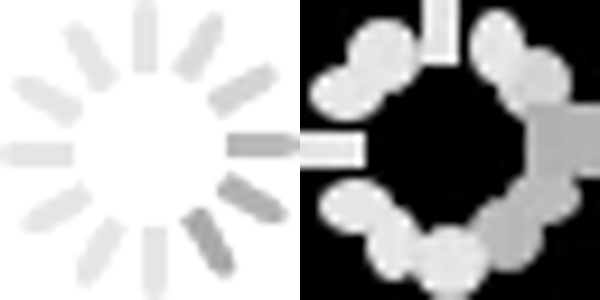
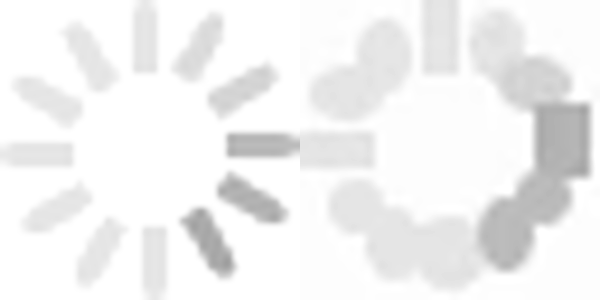
v0.5.2: alpha-aware background estimation
The GIF decoder fills fully-transparent pixels with rgba(0,0,0,0), and
the corner-sampling background estimator averaged that black into its
estimate — real_loader.gif (spinner on a transparent canvas) round-
tripped with bg.fill = #000000 and an inverted look.

detect.rs is now alpha-aware (MIN_OPAQUE_ALPHA = 128):

- estimate_background skips sub-opaque pixels; when no corner pixel is
  opaque at all, fall back to white, the colour viewers composite
  transparent GIFs onto
- the foreground mask treats transparent pixels as background by
  definition, so a transparent canvas can't become one giant
  foreground blob once the estimated background isn't black
- three new unit tests cover the fallback, the dithered-corner case,
  and the transparent-canvas mask guard

Measured: loader background flips #000000 -> #ffffff with all 12 tick
tracks intact (compare still regenerated); opaque inputs unchanged —
all 117 recovered pendulum geometries are byte-identical, only the
tie-break ordering of equal-length noise tracks shuffles. MP4 frames
decode fully opaque, so that path is untouched by construction.

diff --git a/crates/vac-decompiler/src/detect.rs b/crates/vac-decompiler/src/detect.rs
@@ -77,6 +77,14 @@ const FG_THRESHOLD_SQ: u32 = 24 * 24 * 3;
 /// and discarded (smaller than a 3x3 cluster).
 const MIN_BLOB_AREA: u32 = 9;
 
+/// Alpha below this is treated as transparent and excluded from both
+/// background estimation and the foreground mask (v0.5.2). GIF alpha
+/// is binary (0 or 255) and H.264 frames decode with alpha = 255
+/// everywhere, so this only bites on transparent GIF canvases — where
+/// the decoder's rgba(0,0,0,0) fill used to masquerade as a black
+/// background.
+const MIN_OPAQUE_ALPHA: u8 = 128;
+
 /// Run detection across all frames.
 pub fn detect_all(frames: &[VideoFrame]) -> Vec<Detection> {
     let mut out = Vec::with_capacity(frames.len());
@@ -97,6 +105,11 @@ pub fn detect_all(frames: &[VideoFrame]) -> Vec<Detection> {
 }
 
 /// Sample a small block at each corner and return the median RGB.
+///
+/// Fully-transparent pixels are excluded from the samples. If *no*
+/// corner pixel is opaque, the canvas has no measurable background
+/// colour at all — fall back to white, the colour viewers composite
+/// transparent GIFs onto.
 fn estimate_background(f: &VideoFrame) -> Color {
     let w = f.width as i32;
     let h = f.height as i32;
@@ -114,7 +127,7 @@ fn estimate_background(f: &VideoFrame) -> Color {
         }
     }
     if samples.is_empty() {
-        return Color::rgb(0, 0, 0);
+        return Color::rgb(255, 255, 255);
     }
     let mut rs: Vec<u8> = samples.iter().map(|c| c.0).collect();
     let mut gs: Vec<u8> = samples.iter().map(|c| c.1).collect();
@@ -140,6 +153,9 @@ fn sample_block_avg(f: &VideoFrame, x0: i32, y0: i32, w: i32, h: i32) -> Option<
     for y in y0..y1 {
         for x in x0..x1 {
             let i = ((y * fw + x) * 4) as usize;
+            if f.pixels[i + 3] < MIN_OPAQUE_ALPHA {
+                continue;
+            }
             sr += f.pixels[i] as u32;
             sg += f.pixels[i + 1] as u32;
             sb += f.pixels[i + 2] as u32;
@@ -160,9 +176,15 @@ fn detect_blobs(f: &VideoFrame, bg: Color) -> Vec<Blob> {
     let w = f.width as usize;
     let h = f.height as usize;
 
-    // Foreground mask.
+    // Foreground mask. Transparent pixels are background by
+    // definition — without the alpha guard, a transparent canvas
+    // (decoded as rgba(0,0,0,0)) turns into one giant foreground blob
+    // the moment the estimated background isn't black.
     let mut mask = vec![false; w * h];
     for i in 0..(w * h) {
+        if f.pixels[i * 4 + 3] < MIN_OPAQUE_ALPHA {
+            continue;
+        }
         let r = f.pixels[i * 4];
         let g = f.pixels[i * 4 + 1];
         let b = f.pixels[i * 4 + 2];
@@ -585,6 +607,91 @@ mod tests {
         for b in &blobs {
             assert_eq!(b.kind, ShapeKind::Rect, "fill_ratio={}", b.fill_ratio);
         }
+    }
+
+    /// Like `synth_frame`, but pixels where `opaque(x, y)` is false are
+    /// written as rgba(0, 0, 0, 0) — exactly what the GIF decoder
+    /// leaves in transparent regions.
+    fn synth_frame_transparent(
+        w: u32,
+        h: u32,
+        fg: (u8, u8, u8),
+        opaque: impl Fn(u32, u32) -> bool,
+    ) -> VideoFrame {
+        let mut pixels = vec![0u8; (w * h * 4) as usize];
+        for y in 0..h {
+            for x in 0..w {
+                if opaque(x, y) {
+                    let i = ((y * w + x) * 4) as usize;
+                    pixels[i] = fg.0;
+                    pixels[i + 1] = fg.1;
+                    pixels[i + 2] = fg.2;
+                    pixels[i + 3] = 255;
+                }
+            }
+        }
+        VideoFrame {
+            width: w,
+            height: h,
+            pixels,
+            delay_ms: 33,
+        }
+    }
+
+    /// v0.5.2 — a fully-transparent canvas has no measurable background;
+    /// the estimator must fall back to white (the viewer compositing
+    /// default), not report the decoder's rgba(0,0,0,0) fill as black.
+    #[test]
+    fn transparent_corners_fall_back_to_white_background() {
+        let f = synth_frame_transparent(32, 32, (60, 60, 60), |x, y| {
+            // Opaque dark disk in the middle; corners fully transparent.
+            let dx = x as i32 - 16;
+            let dy = y as i32 - 16;
+            dx * dx + dy * dy <= 6 * 6
+        });
+        let bg = estimate_background(&f);
+        assert_eq!(
+            (bg.r, bg.g, bg.b),
+            (255, 255, 255),
+            "transparent corners should fall back to white, got {bg:?}"
+        );
+    }
+
+    /// v0.5.2 — opaque corner pixels must win over transparent ones in
+    /// the same corner block instead of being averaged with black.
+    #[test]
+    fn background_estimation_ignores_transparent_pixels_in_corner_blocks() {
+        // Every even pixel is opaque mid-grey, every odd pixel is
+        // transparent — a 50% dither. The estimate must be the grey,
+        // not grey averaged toward rgba(0,0,0,0).
+        let f = synth_frame_transparent(32, 32, (200, 200, 200), |x, y| (x + y) % 2 == 0);
+        let bg = estimate_background(&f);
+        assert_eq!(
+            (bg.r, bg.g, bg.b),
+            (200, 200, 200),
+            "transparent pixels leaked into the estimate: {bg:?}"
+        );
+    }
+
+    /// v0.5.2 — transparent pixels are background by definition. With a
+    /// white estimated background, the transparent canvas (decoded as
+    /// black) must NOT become one giant foreground blob; only the
+    /// opaque tick is a blob.
+    #[test]
+    fn transparent_canvas_does_not_become_a_foreground_blob() {
+        let f = synth_frame_transparent(32, 32, (60, 60, 60), |x, y| {
+            (14..18).contains(&x) && (4..12).contains(&y)
+        });
+        let blobs = detect_blobs(&f, Color::rgb(255, 255, 255));
+        assert_eq!(
+            blobs.len(),
+            1,
+            "expected only the opaque tick as a blob, got {blobs:?}"
+        );
+        let b = blobs[0];
+        assert!((b.cx - 15.5).abs() <= 1.0, "cx={}", b.cx);
+        assert!((b.cy - 7.5).abs() <= 1.0, "cy={}", b.cy);
+        assert_eq!((b.color.r, b.color.g, b.color.b), (60, 60, 60));
     }
 }
 

diff --git a/docs/v0.4-capability-matrix.md b/docs/v0.4-capability-matrix.md
@@ -442,7 +442,12 @@ more gaps surfaced:**
 1. **Transparent GIFs:** corner sampling on a fully-transparent corner
    returns whatever the GIF decoder filled it with, which on this input
    was black. v0.5 should detect alpha and treat fully-transparent
-   pixels as "ignore for background estimation".
+   pixels as "ignore for background estimation". (**Shipped v0.5.2** —
+   `detect.rs` skips sub-opaque pixels in both background estimation
+   and the foreground mask, falling back to a white canvas when no
+   corner pixel is opaque. The loader round-trip background flipped
+   from `#000000` to `#ffffff`; opaque inputs are geometrically
+   unchanged.)
 2. **Rotational motion:** the spinner is conceptually one shape rotating
    12 times, but VAC's tracker has no rotational matching, so each tick
    gets a fresh track of length ~3 frames. v0.5+ should add a `rotate`
@@ -454,7 +459,7 @@ more gaps surfaced:**
 |---|---|---|
 | **Stationarity filter on per-track motion variance** | `newtons_cradle` (60→53 blocks), `mandelbrot` (27→22), partial `pendulum` | **Shipped v0.5.1** — every sample within 2.5 px of the track's mean position → static shape anchored at the median, no `animate`. |
 | **Odd-dimension encoder** | `double_pendulum` | **Shipped v0.4.1** — `vac-compiler::mp4` now pads odd canvases. |
-| **Transparent-pixel-aware background estimation** | `loader` | Read alpha in `detect::estimate_background`, skip α=0 samples. |
+| **Transparent-pixel-aware background estimation** | `loader` | **Shipped v0.5.2** — alpha-aware corner sampling + alpha-guarded foreground mask; white fallback for fully-transparent canvases. |
 | **Rotational track matching** | `loader`, partial `newtons_cradle` | Add rotation candidate to `track::matching_cost`; emit `rotate(deg)` transforms in the AST. |
 | **Gradient fill primitive** | `bouncing_ball`, `newtons_cradle` | `let s = ellipse(...); s.fill = radial(#aaa, #ddd, 60%)` or similar. |
 

diff --git a/README.md b/README.md
@@ -842,3 +842,31 @@ real pendulum fix is velocity-aware tracking (v0.6), which now has hard
 numbers behind it. What the filter reliably buys is the UI /
 motion-graphics content class: static cards, labels and logos that
 jitter 1–2 px under codec noise now emit as bare `let` statements.
+
+---
+
+## v0.5.2 — Alpha-aware background estimation
+
+Second capability-matrix slice: transparent GIF canvases stop reading
+as black.
+
+The GIF decoder fills fully-transparent pixels with `rgba(0, 0, 0, 0)`,
+and the corner-sampling background estimator happily averaged that
+black into its estimate — which is how `real_loader.gif` (a spinner on
+a transparent canvas) round-tripped with `bg.fill = #000000` and an
+inverted look. v0.5.2 makes `detect.rs` alpha-aware:
+
+- **Background estimation** skips sub-opaque pixels; if *no* corner
+  pixel is opaque the canvas has no measurable background colour, and
+  the estimator falls back to white — the colour viewers composite
+  transparent GIFs onto.
+- **The foreground mask** treats transparent pixels as background by
+  definition, so a transparent canvas can't become one giant
+  foreground blob the moment the estimated background isn't black.
+
+Measured effect: the loader's background flips `#000000 → #ffffff`
+(all 12 tick tracks intact), and opaque inputs are geometrically
+untouched — all 117 recovered geometries of `real_pendulum` are
+byte-identical before/after; only the tie-break ordering of
+equal-length noise tracks shuffles. H.264/MP4 frames decode fully
+opaque, so the MP4 path is unaffected by construction.
